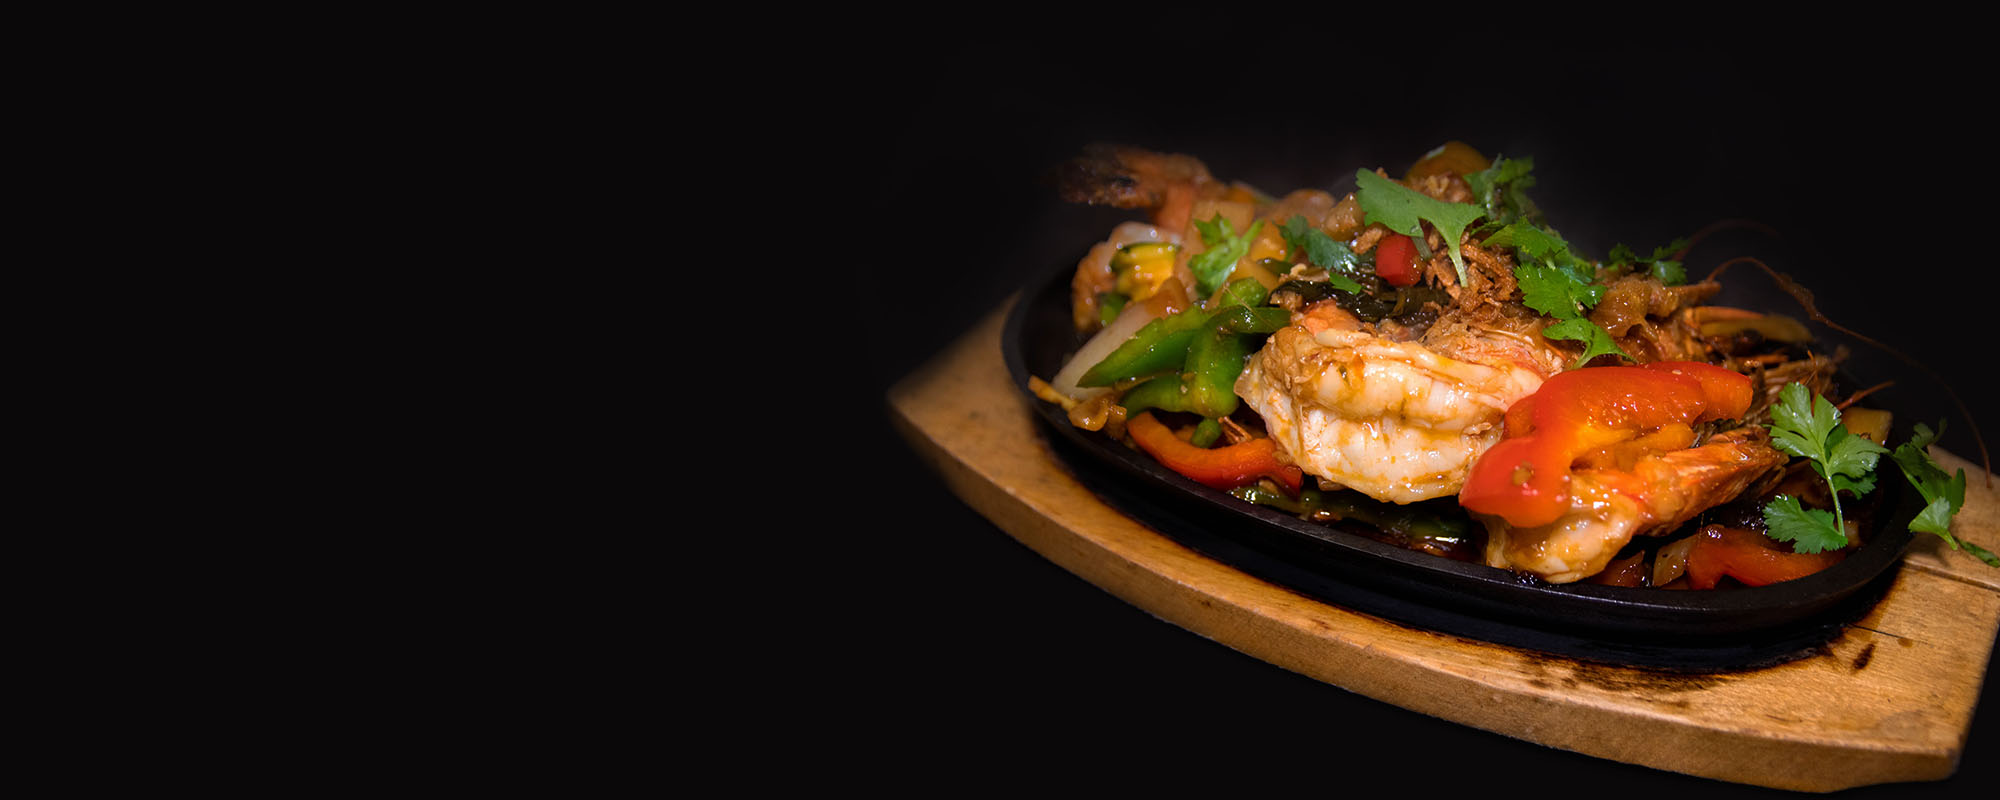
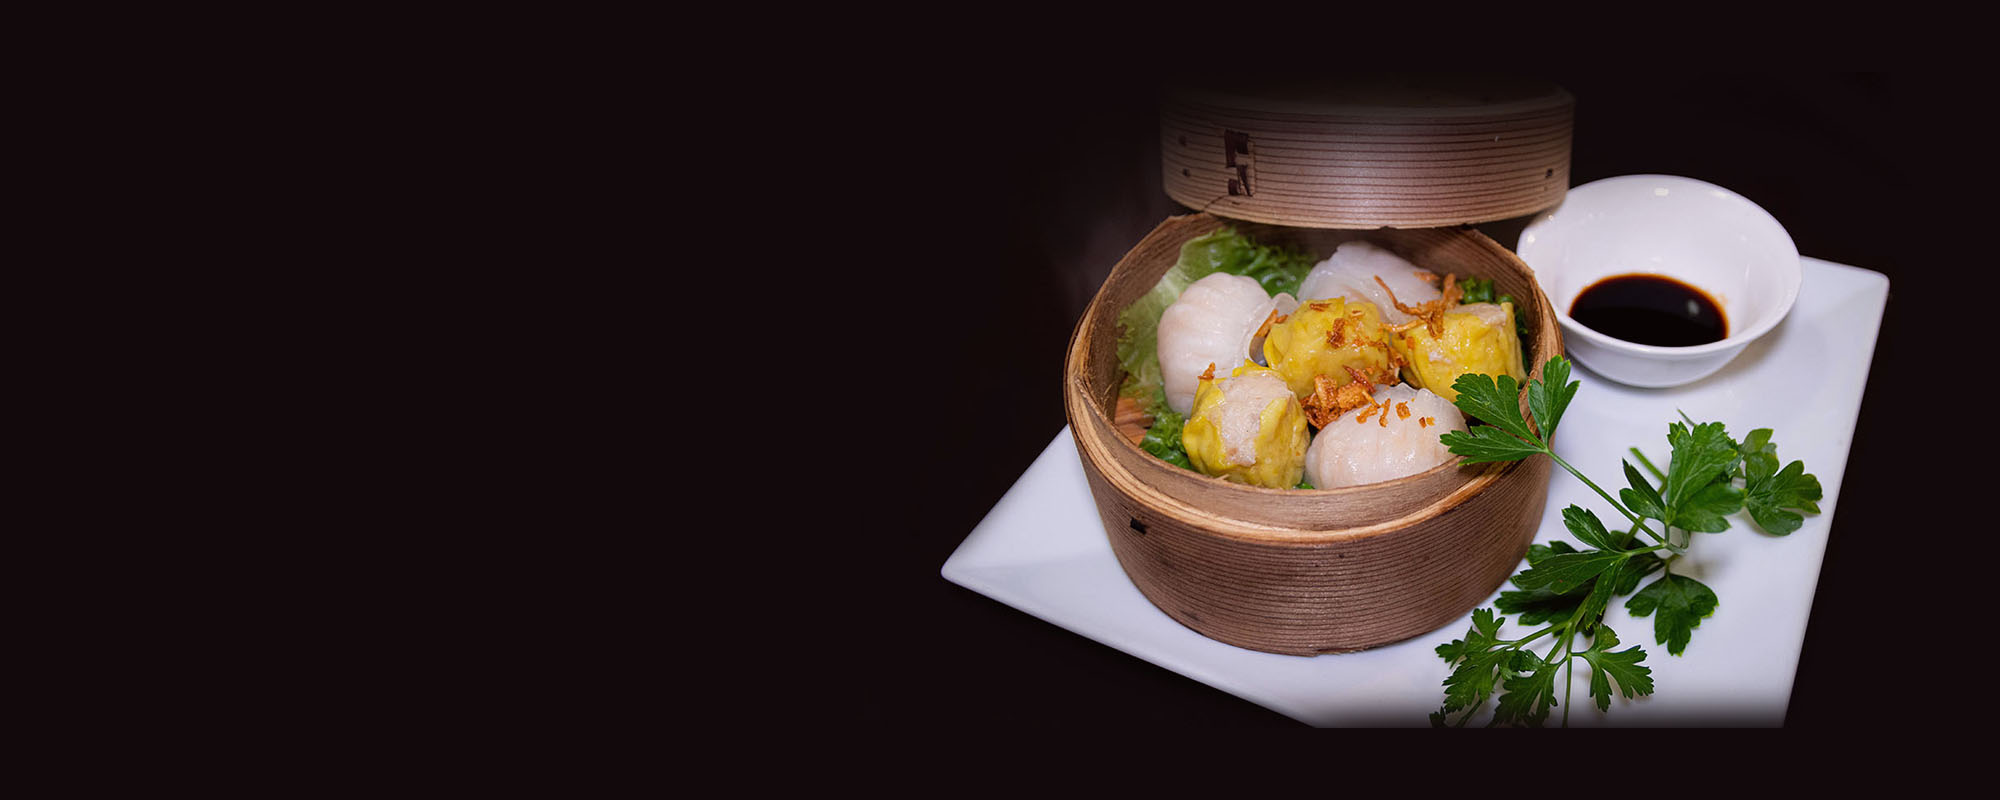
Refonte section 1 homepage

diff --git a/homepage.html b/homepage.html
@@ -20,6 +20,7 @@
         <header>
             <a class="logo" href="homepage.html">
                 <img src="IMG/logo-tanlap-site.png" alt="logo" class="logo-black">
+                <img src="IMG/logo-tanlap-site-w.png" alt="logo" class="logo-white">
             </a>
             <nav>             	
                 <label class="label-nav" for="toggle">☰</label>
@@ -40,7 +41,7 @@
                     <div class="spre-left">
                         <h1>Restaurant Tan Lap</h1>
                         <p>Depuis plus de 15 ans, le restaurant vous propose de découvrir de nouvelles saveurs en voyagant en Asie grâce à nos plats de spécialités Vietnamiennes et Thailandaises.</p>
-                        <button id="button-accueil">Découvrir Notre Carte</button>
+                        <a href="https://www.tripadvisor.fr/Restaurant_Review-g675406-d1336058-Reviews-Tan_Lap-Lodeve_Herault_Occitanie.html"><button id="button-accueil">Découvrir sur Tripadvisor</button></a>
                     </div>
             </div>
         </section>

diff --git a/homepage.css b/homepage.css
@@ -16,7 +16,7 @@
     .sect-prebg {
         width: 100%;
         height: 100%;
-        background-image: url(img/tanlap-slide1.jpg);
+        background-image: url(img/tanlap-slide3.jpg);
         background-position: center;
         background-size: cover;
         background-repeat: no-repeat;
@@ -32,26 +32,20 @@
         flex-direction: column;
         align-items: flex-start;
         text-align: center;
-        top:200px;
+        top:250px;
         left:150px;
         padding: 50px;
         position: absolute;
-    }
-    .spre-left h1{
-        color: #ffffff;
-        line-height: 80px;
-        font-size: 50px;
-        font-weight: 400;
-        text-decoration: none;
     }
     .spre-left p{
         color: #f2F2F2;
         font-size: 16px;
         font-weight: 200;
         padding-bottom: 20px;
-        line-height: 25px;
+        line-height: 30px;
         width: 500px;
         text-align: left;
+        margin-top: 10px;
     }
 
     /*BUTTON ACCUEIL*/

diff --git a/global.css b/global.css
@@ -21,7 +21,15 @@
    }
 
 /*TITRES*/
-h1, h2, h3 {
+h1 {
+    color: #ffffff;
+    font-family: Helvetica, sans-serif;
+    line-height: 1.2em;
+    text-transform: capitalize;
+    font-weight: 700;
+    font-size: 54px;
+}
+h2, h3 {
     font-family: 'SourceSerifBold';
     line-height: 1,5em;
 }
